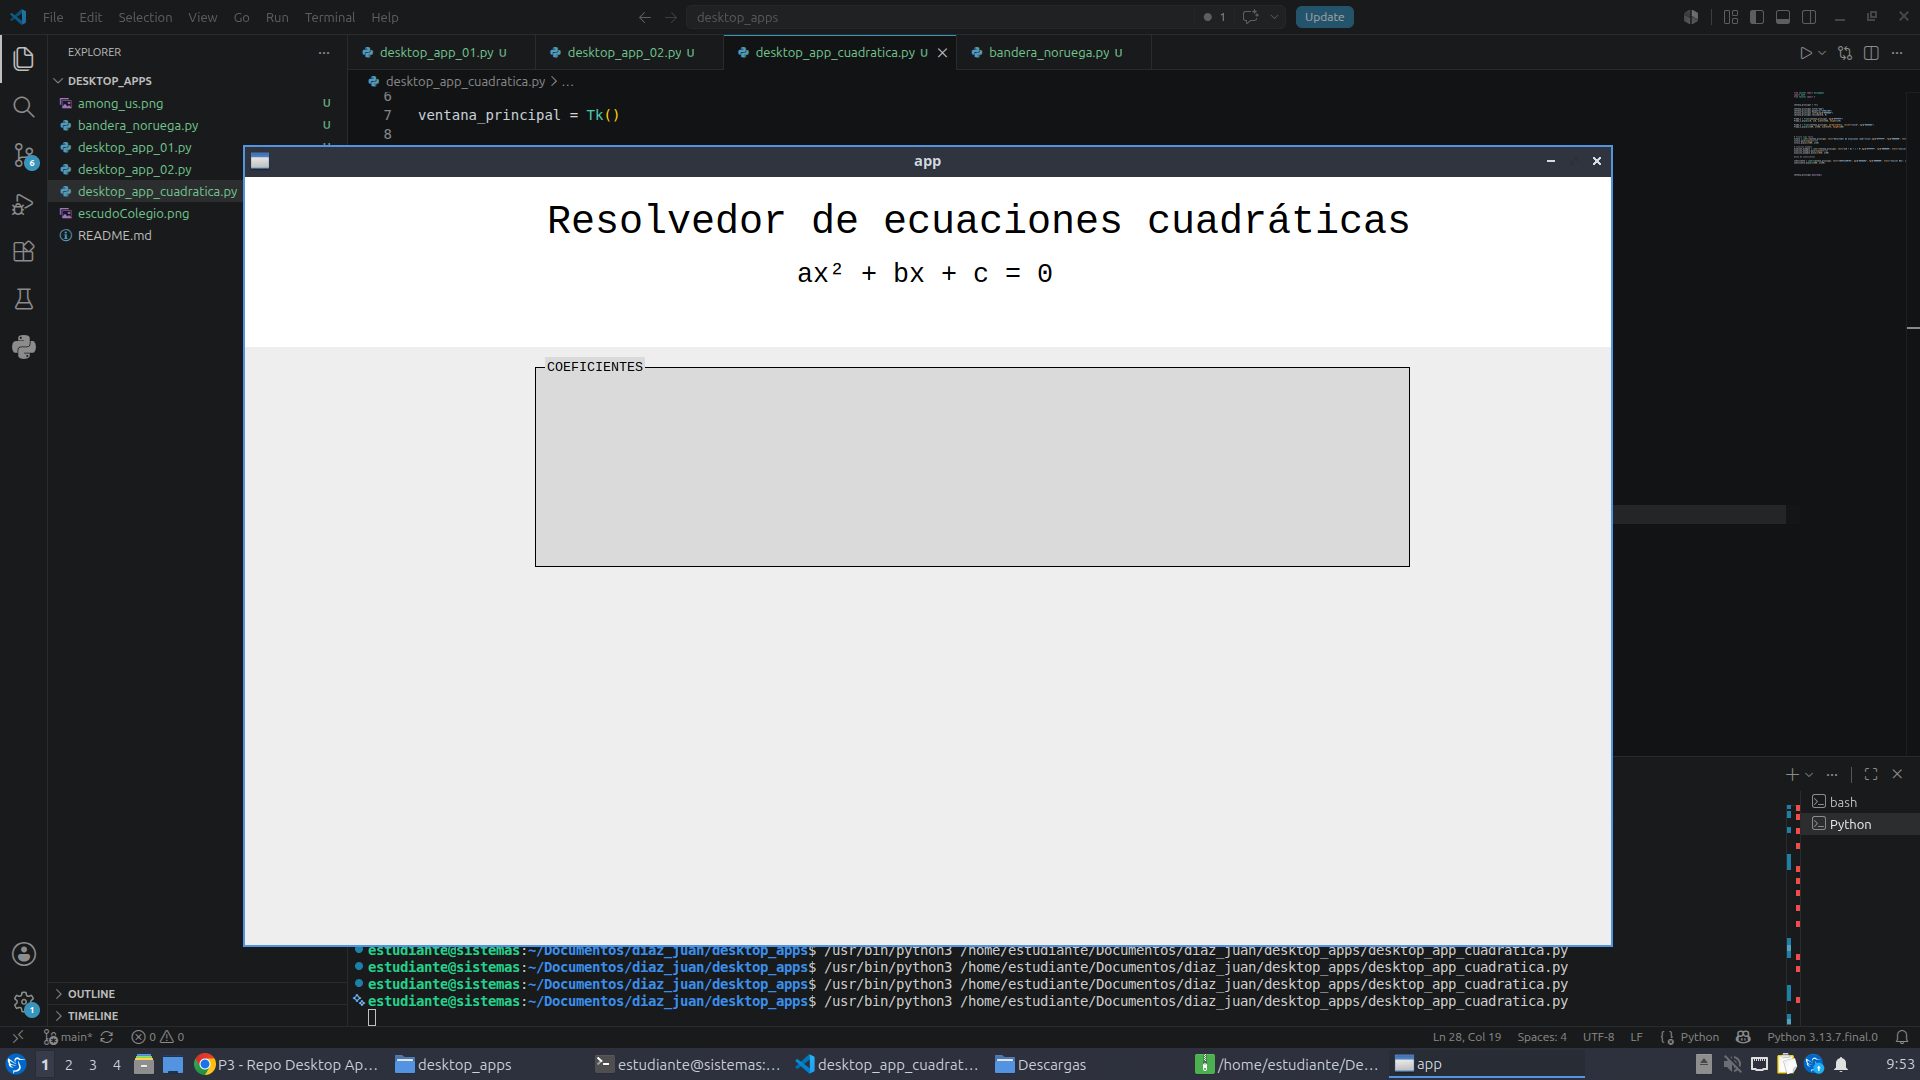
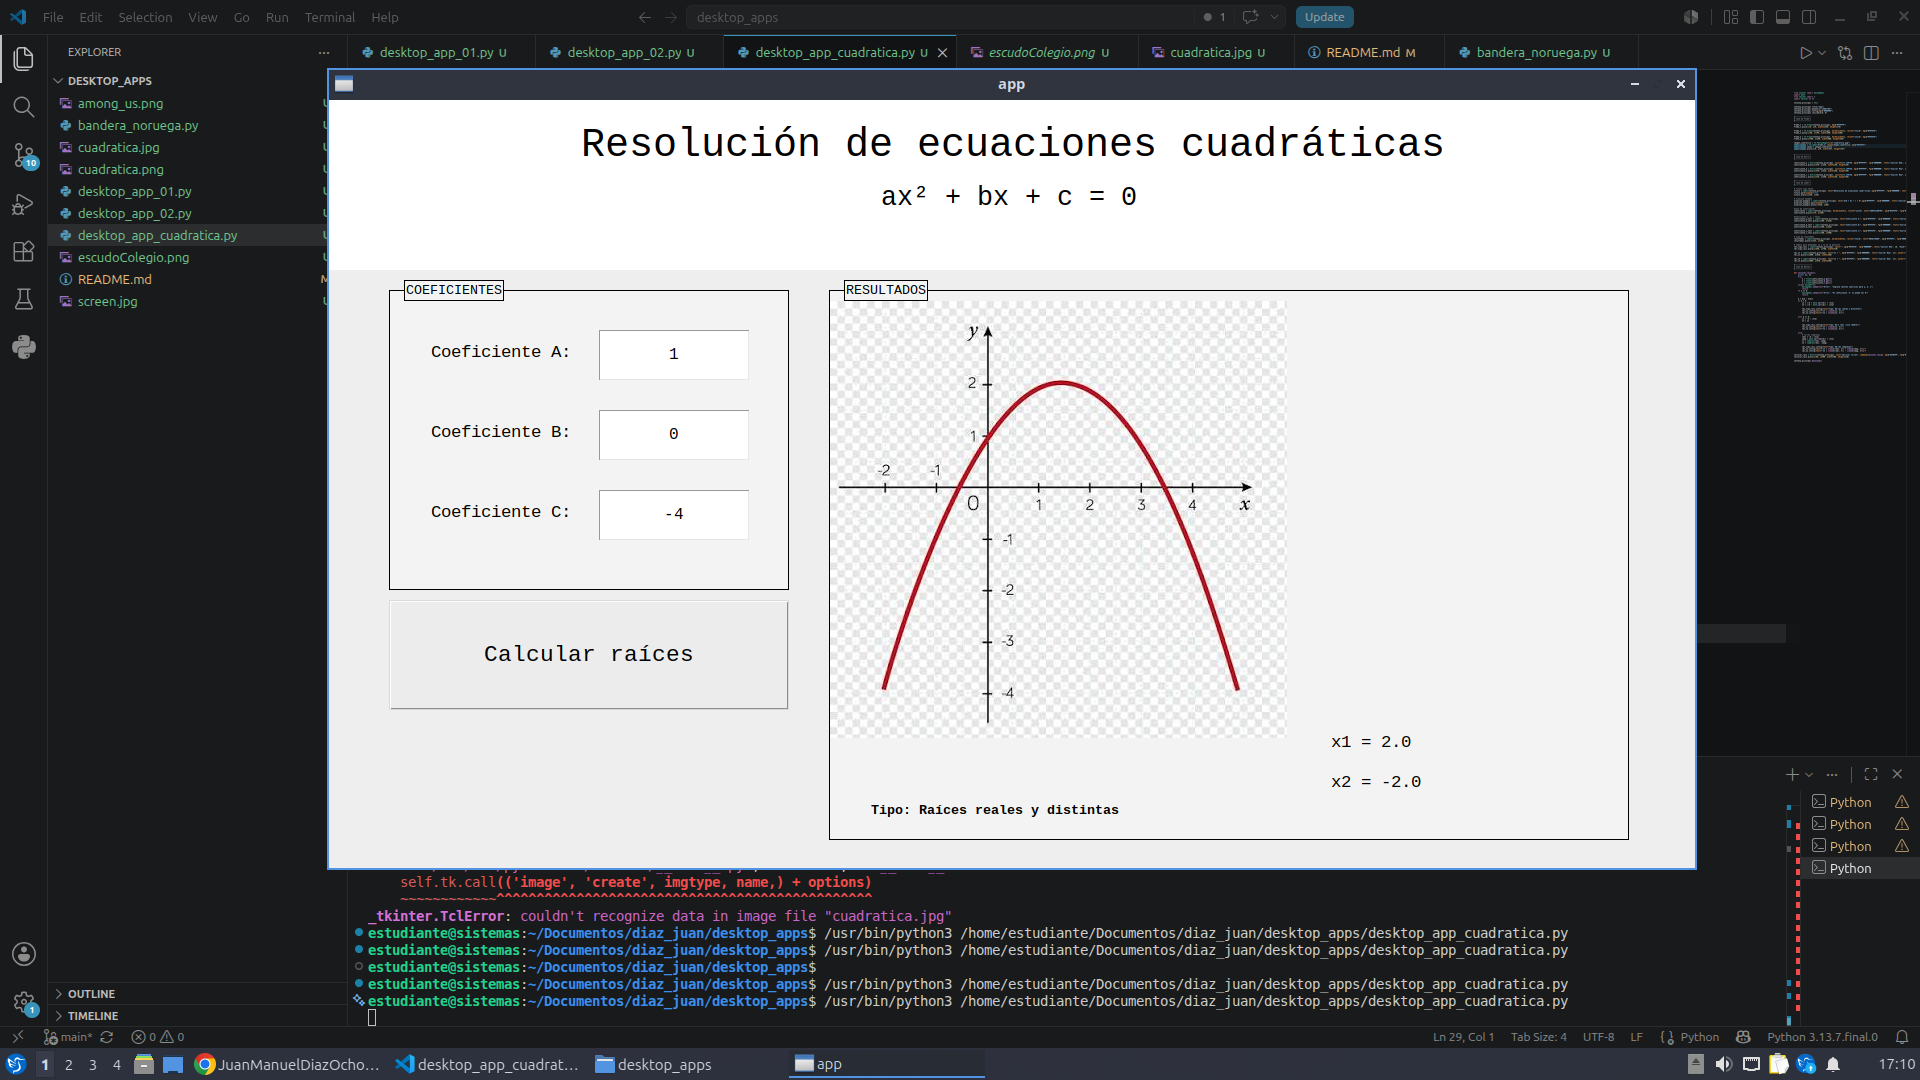
Add files via upload

diff --git a/README.md b/README.md
@@ -3,8 +3,8 @@
 
 ## app_cuadratica
 
-![alt text](screen.jpg)
 
+![alt text](image.png)
 
 
 ###### NO SOY PRECOZ TEACHER
